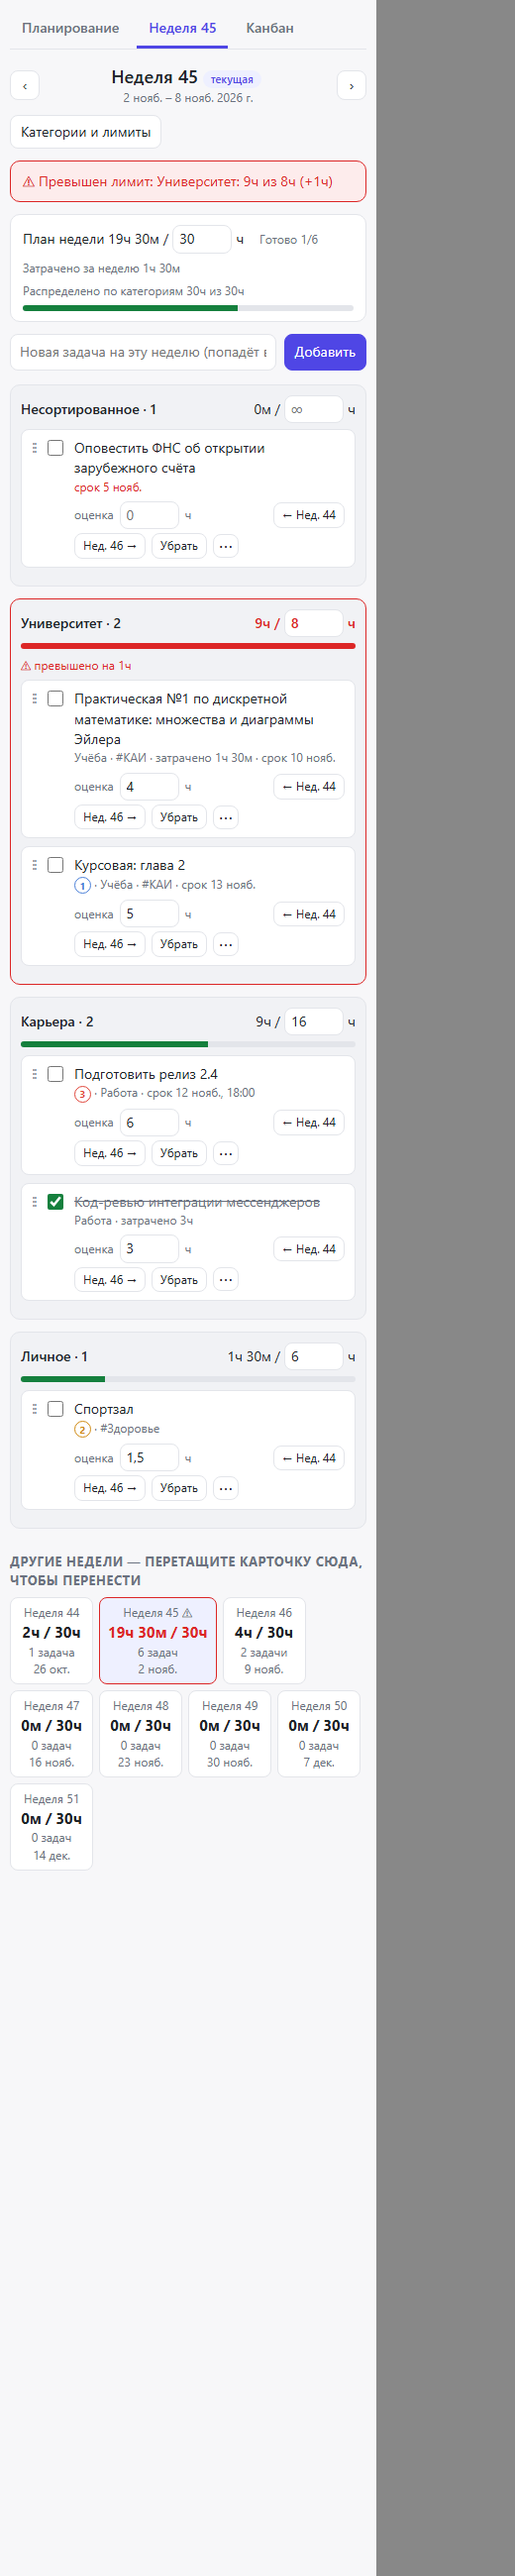
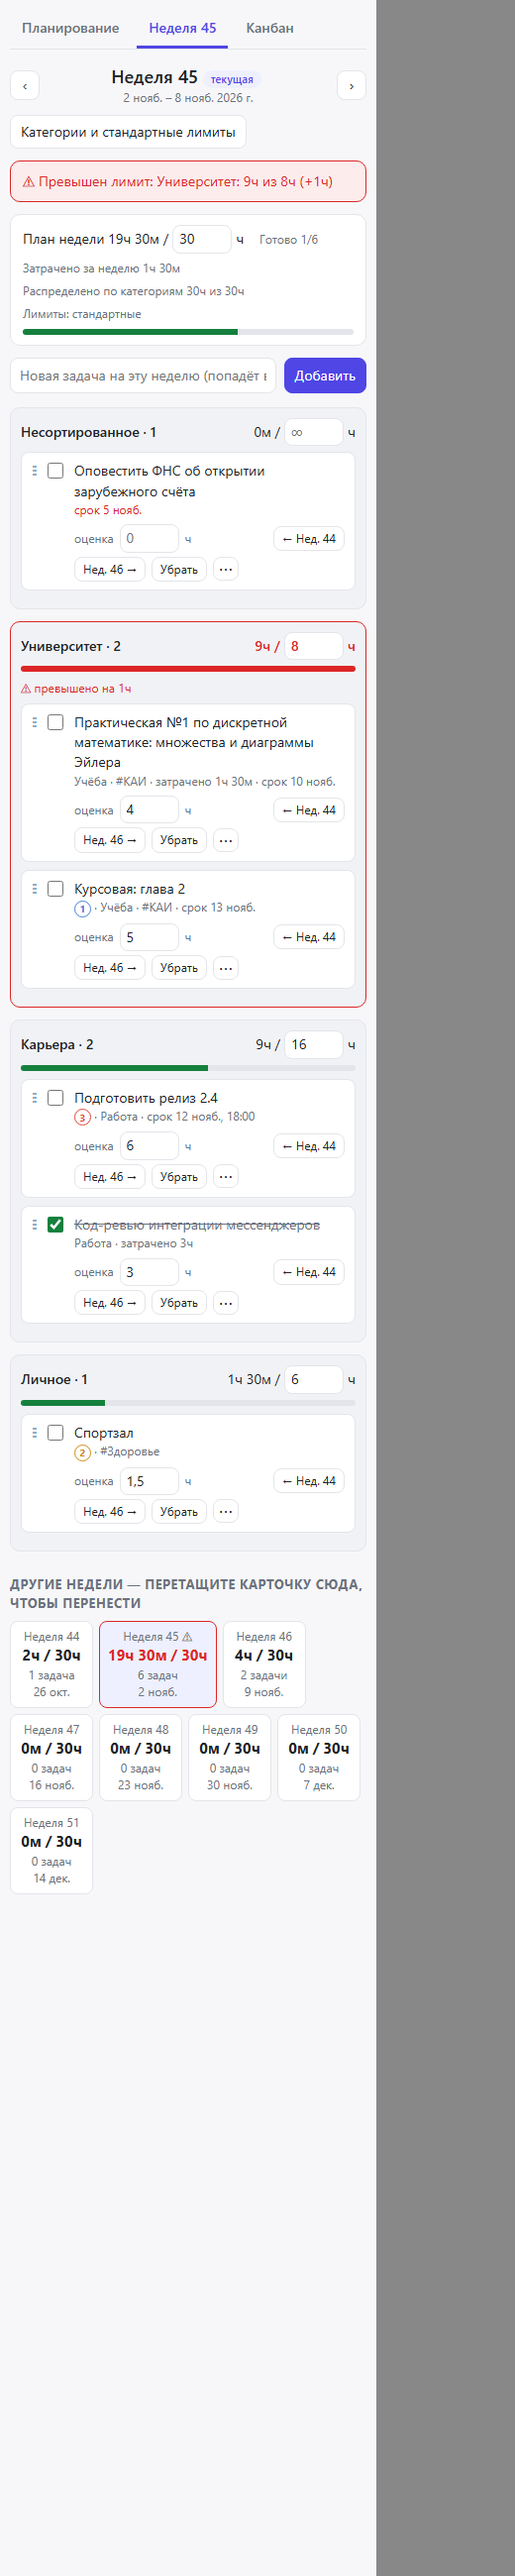
0.7.0: default limits and own limits per week
Limits edited on the week page are stored per week (wl_<week>) as a snapshot of the defaults, so later default changes do not affect edited weeks. The categories dialog edits the defaults. A 'Use defaults' button removes the own limits of a week.

Changed region(s): [[0.0, 0.0935, 0.7077, 0.7477], [0.4308, 0.3427, 0.4923, 0.3738]]

diff --git a/week-planner/index.html b/week-planner/index.html
@@ -328,6 +328,7 @@
 
   var KEY_PREFIX = 't_';
   var CFG_KEY = 'cfg';
+  var WL_PREFIX = 'wl_';
   var NAV_SECRET = 'nav';
   var WEEK_RE = /^\d{4}-W\d{2}$/;
   var HOUR = 3600000;
@@ -352,13 +353,13 @@
       planTitle: 'Weeks {a}–{b}', planHint: 'Click a week to make it the target of the "→" buttons. Drop tasks onto a week.',
       target: 'target', openWeek: 'Open', unsortedN: 'unsorted: {n}',
       weekTotal: 'Week plan {t} /', doneN: 'Done {d}/{n}', spentWeek: 'Tracked this week {t}',
-      catsBtn: 'Categories & limits', add: 'Add', addPh: 'New task for this week (goes to {c})…',
+      catsBtn: 'Categories & default limits', add: 'Add', addPh: 'New task for this week (goes to {c})…',
       stripTitle: 'Other weeks — drop a card here to move it',
       toPrev: '← W{n}', toNext: 'W{n} →', toPrevTitle: 'Move to week {n}', toNextTitle: 'Move to week {n}',
       unplan: 'Unplan', unplanTitle: 'Remove from this week. The task itself stays.',
       estInput: 'estimate', estFromSubs: 'The estimate is the sum of the subtasks',
-      emptyCol: 'Drop tasks here', limitTitle: 'Limit in hours for one week, for all weeks',
-      weekLimitTitle: 'Limit for the whole week, in hours',
+      emptyCol: 'Drop tasks here', limitTitle: 'Default limit in hours per week', limitTitleWeek: 'Limit of this week. Other weeks are not changed.', limitsDefault: 'Limits: default', limitsOwn: 'own week limits', limitsReset: 'Use defaults', limitsResetTitle: 'Delete the own limits of this week and use the defaults again',
+      weekLimitTitle: 'Limit of this week, hours. Other weeks are not changed.',
       over: 'over by {t}', overBanner: 'Limit exceeded', overItem: '{name}: {a} of {b} (+{x})',
       overLine: '⚠ Week {w}, "{name}": {a} of {b}',
       kTitle: 'Kanban · week {n}', kAll: 'All', kDone: 'Done {d} of {t}',
@@ -383,8 +384,8 @@
       ctxUnplan: 'Remove from week', ctxNotPlanned: 'not planned', ctxCat: 'Category', ctxOpen: 'Open task details',
       ctxDelete: 'Delete task', ctxDelConfirm: 'Click again to delete', ctxBack: '← Back', ctxDeleted: 'Task deleted',
       cat_unsorted: 'Unsorted', cat_uni: 'University', cat_career: 'Career', cat_personal: 'Personal',
-      edCats: 'Categories and limits', edCatsHint: 'Categories and limits are the same for every week.',
-      catName: 'Name', catLimit: 'limit, h', addCat: '+ Category', weekLimit: 'Limit for the whole week, hours',
+      edCats: 'Categories and default limits', edCatsHint: 'Categories are the same for every week. Default limits apply to every week except weeks where you set own limits on the week page.',
+      catName: 'Name', catLimit: 'default, h', addCat: '+ Category', weekLimit: 'Default week limit, hours',
       cardSort: 'Card order inside columns', untitled: 'Untitled',
       edPool: 'Unplanned tasks: filter & sort', noFilter: 'no filter', sortBy: 'sort',
       match: 'Show tasks that match', matchAll: 'all conditions', matchAny: 'any condition',
@@ -423,13 +424,13 @@
       planTitle: 'Недели {a}–{b}', planHint: 'Щёлкните по неделе, чтобы кнопки «→» в пуле добавляли задачи на неё. Задачи можно перетаскивать на недели.',
       target: 'цель', openWeek: 'Открыть', unsortedN: 'не разобрано: {n}',
       weekTotal: 'План недели {t} /', doneN: 'Готово {d}/{n}', spentWeek: 'Затрачено за неделю {t}',
-      catsBtn: 'Категории и лимиты', add: 'Добавить', addPh: 'Новая задача на эту неделю (попадёт в «{c}»)…',
+      catsBtn: 'Категории и стандартные лимиты', add: 'Добавить', addPh: 'Новая задача на эту неделю (попадёт в «{c}»)…',
       stripTitle: 'Другие недели — перетащите карточку сюда, чтобы перенести',
       toPrev: '← Нед. {n}', toNext: 'Нед. {n} →', toPrevTitle: 'Перенести на неделю {n}', toNextTitle: 'Перенести на неделю {n}',
       unplan: 'Убрать', unplanTitle: 'Убрать из этой недели. Сама задача останется.',
       estInput: 'оценка', estFromSubs: 'Оценка складывается из подзадач',
-      emptyCol: 'Перетащите задачи сюда', limitTitle: 'Лимит часов на неделю, общий для всех недель',
-      weekLimitTitle: 'Лимит на всю неделю, часов',
+      emptyCol: 'Перетащите задачи сюда', limitTitle: 'Стандартный лимит часов на неделю', limitTitleWeek: 'Лимит этой недели. Изменение не затрагивает другие недели.', limitsDefault: 'Лимиты: стандартные', limitsOwn: 'свои лимиты недели', limitsReset: 'Вернуть стандартные', limitsResetTitle: 'Удалить свои лимиты этой недели и снова использовать стандартные',
+      weekLimitTitle: 'Лимит этой недели, часов. Изменение не затрагивает другие недели.',
       over: 'превышено на {t}', overBanner: 'Превышен лимит', overItem: '{name}: {a} из {b} (+{x})',
       overLine: '⚠ Неделя {w}, «{name}»: {a} из {b}',
       kTitle: 'Канбан · неделя {n}', kAll: 'Все', kDone: 'Готово {d} из {t}',
@@ -454,8 +455,8 @@
       ctxUnplan: 'Убрать из недели', ctxNotPlanned: 'не запланирована', ctxCat: 'Категория', ctxOpen: 'Открыть панель задачи',
       ctxDelete: 'Удалить задачу', ctxDelConfirm: 'Нажмите ещё раз, чтобы удалить', ctxBack: '← Назад', ctxDeleted: 'Задача удалена',
       cat_unsorted: 'Несортированное', cat_uni: 'Университет', cat_career: 'Карьера', cat_personal: 'Личное',
-      edCats: 'Категории и лимиты', edCatsHint: 'Категории и лимиты общие для всех недель.',
-      catName: 'Название', catLimit: 'лимит, ч', addCat: '+ Категория', weekLimit: 'Лимит на всю неделю, часов',
+      edCats: 'Категории и стандартные лимиты', edCatsHint: 'Категории общие для всех недель. Стандартные лимиты получают все недели, кроме тех, где вы задали свои лимиты на вкладке недели.',
+      catName: 'Название', catLimit: 'стандарт, ч', addCat: '+ Категория', weekLimit: 'Стандартный лимит недели, часов',
       cardSort: 'Порядок карточек в колонках', untitled: 'Без названия',
       edPool: 'Незапланированные задачи: фильтр и сортировка', noFilter: 'без фильтра', sortBy: 'сортировка',
       match: 'Показывать задачи, которые подходят под', matchAll: 'все условия', matchAny: 'любое условие',
@@ -566,7 +567,7 @@
   var state = {
     today: null, curWeek: null,
     page: 'plan', week: null, kWeek: null, planStart: null, target: null,
-    assign: {}, tasks: {}, archived: {}, projects: {}, tags: {},
+    assign: {}, tasks: {}, archived: {}, projects: {}, tags: {}, weekLimits: {},
     cfg: defaultCfg(), poolQuery: '', poolSel: {}, kCat: null
   };
   var editor = null;
@@ -948,8 +949,9 @@
     var res = await Promise.all([
       todayDate(), loadAssignments(), PluginAPI.getTasks(),
       PluginAPI.getArchivedTasks().catch(function () { return []; }),
-      PluginAPI.getAllProjects(), PluginAPI.getAllTags(), loadCfg()
+      PluginAPI.getAllProjects(), PluginAPI.getAllTags(), loadCfg(), loadWeekLimits()
     ]);
+    state.weekLimits = res[7];
     state.today = ymd(res[0]);
     var cw = isoWeekKey(res[0]);
     var weekChanged = state.curWeek && state.curWeek !== cw;
@@ -1008,13 +1010,60 @@
     return { tasks: wt, total: hoursOf(wt), cats: cats };
   }
 
+  // ---------- limits: defaults in cfg, own limits per week in "wl_<week>" ----------
+  // A week without own limits follows the defaults. The first edit of a limit inside a week copies
+  // all current defaults into the week, so later default changes do not touch that week.
+  function weekLimitH(w) {
+    var o = state.weekLimits[w];
+    return o ? o.week : state.cfg.weekLimitH;
+  }
+  function catLimitH(w, c) {
+    var o = state.weekLimits[w];
+    return o && Object.prototype.hasOwnProperty.call(o.cats, c.id) ? o.cats[c.id] : c.limitH;
+  }
+  function weekCats(w) {
+    return state.cfg.cats.map(function (c) { return { id: c.id, limitH: catLimitH(w, c) }; });
+  }
+  function parseWeekLimits(v) {
+    if (!v) return null;
+    try {
+      var o = JSON.parse(v);
+      if (!o || typeof o !== 'object') return null;
+      var cats = {};
+      Object.keys(o.cats || {}).forEach(function (k) { cats[k] = posNum(o.cats[k]); });
+      return { week: posNum(o.week), cats: cats };
+    } catch (e) { return null; }
+  }
+  async function loadWeekLimits() {
+    var keys = await PluginAPI.listSyncedDataKeys(WL_PREFIX);
+    var vals = await Promise.all(keys.map(function (k) { return PluginAPI.loadSyncedData(k); }));
+    var map = {};
+    keys.forEach(function (k, i) {
+      var w = k.slice(WL_PREFIX.length);
+      var o = parseWeekLimits(vals[i]);
+      if (o && WEEK_RE.test(w)) map[w] = o;
+    });
+    return map;
+  }
+  function ownLimitsFrom(w) {
+    var cats = {};
+    state.cfg.cats.forEach(function (c) { cats[c.id] = catLimitH(w, c); });
+    return { week: weekLimitH(w), cats: cats };
+  }
+  async function saveWeekLimits(w, o) {
+    if (o) state.weekLimits[w] = o;
+    else delete state.weekLimits[w];
+    render(true);
+    await PluginAPI.persistDataSynced(o ? JSON.stringify(o) : '', WL_PREFIX + w);
+  }
+
   function overLimits(w) {
     var ld = weekLoad(w);
     var out = [];
-    var wl = limMs(state.cfg.weekLimitH);
+    var wl = limMs(weekLimitH(w));
     if (wl && ld.total > wl) out.push({ id: '_week', name: t('week', { n: weekNum(w) }), h: ld.total, lim: wl });
     state.cfg.cats.forEach(function (c) {
-      var l = limMs(c.limitH);
+      var l = limMs(catLimitH(w, c));
       if (l && ld.cats[c.id].h > l) out.push({ id: c.id, name: catName(c), h: ld.cats[c.id].h, lim: l });
     });
     return out;
@@ -1225,47 +1274,58 @@
   }
   function hrs(h) { return fmtDur(h * HOUR); }
 
+  // Inputs in the week page edit the own limits of the shown week, not the defaults.
   function limitInput(catId) {
+    var w = state.week;
     var c = catId === '_week' ? null : catById(catId);
-    var val = c ? c.limitH : state.cfg.weekLimitH;
-    var input = numInput(val, '0.5', c ? t('limitTitle') : t('weekLimitTitle'), async function (v) {
-      var week = state.cfg.weekLimitH;
-      if (catId === '_week') {
-        var sum = catLimitSum(state.cfg.cats);
+    var val = c ? catLimitH(w, c) : weekLimitH(w);
+    var input = numInput(val, '0.5', c ? t('limitTitleWeek') : t('weekLimitTitle'), async function (v) {
+      if ((c ? catLimitH(w, c) : weekLimitH(w)) === v) return;
+      var own = ownLimitsFrom(w);
+      var cats = weekCats(w);
+      if (!c) {
+        var sum = catLimitSum(cats);
         if (v !== null && v < sum) {
           v = sum;
           showToast(t('weekClamped', { t: hrs(sum) }), true, null);
         }
-        state.cfg.weekLimitH = v;
+        own.week = v;
       } else {
-        var target = state.cfg.cats.filter(function (x) { return x.id === catId; })[0];
-        if (!target) return;
-        if (week && v !== null) {
-          var room = Math.max(0, week - catLimitSum(state.cfg.cats, catId));
+        if (own.week && v !== null) {
+          var room = Math.max(0, own.week - catLimitSum(cats, catId));
           if (room <= 0) {
-            showToast(t('catNoRoom', { name: catName(target), w: hrs(week) }), true, null);
+            showToast(t('catNoRoom', { name: catName(c), w: hrs(own.week) }), true, null);
             render(true);
             return;
           }
           if (v > room) {
             v = room;
-            showToast(t('catClamped', { name: catName(target), t: hrs(room), w: hrs(week) }), true, null);
+            showToast(t('catClamped', { name: catName(c), t: hrs(room), w: hrs(own.week) }), true, null);
           }
         }
-        target.limitH = v;
+        own.cats[catId] = v;
       }
-      render(true);
-      await saveCfg();
+      await saveWeekLimits(w, own);
     });
-    if (c && state.cfg.weekLimitH) {
-      input.max = String(Math.max(0, state.cfg.weekLimitH - catLimitSum(state.cfg.cats, catId)));
-    }
+    var wl = weekLimitH(w);
+    if (c && wl) input.max = String(Math.max(0, wl - catLimitSum(weekCats(w), catId)));
     return input;
   }
 
+  function limitsModeEl(w) {
+    if (!state.weekLimits[w]) return el('span', { className: 'muted', text: t('limitsDefault') });
+    return el('span', { className: 'hours' }, [
+      el('span', { className: 'badge', text: t('limitsOwn') }),
+      el('button', {
+        type: 'button', className: 'small', text: t('limitsReset'), title: t('limitsResetTitle'),
+        onclick: run(function () { return saveWeekLimits(w, null); })
+      })
+    ]);
+  }
+
   function allocEl() {
-    var week = state.cfg.weekLimitH;
-    var sum = catLimitSum(state.cfg.cats);
+    var week = weekLimitH(state.week);
+    var sum = catLimitSum(weekCats(state.week));
     if (!week) return null;
     if (sum > week) {
       return el('span', { className: 'bad-text', style: 'font-size:12px', text: '⚠ ' + t('allocOver', { a: hrs(sum), b: hrs(week) }) });
@@ -1371,10 +1431,10 @@
 
   function weekCard(w) {
     var ld = weekLoad(w);
-    var wl = limMs(state.cfg.weekLimitH);
+    var wl = limMs(weekLimitH(w));
     var over = overLimits(w);
     var lines = state.cfg.cats.map(function (c) {
-      var l = limMs(c.limitH);
+      var l = limMs(catLimitH(w, c));
       var h = ld.cats[c.id].h;
       if (c.id === UNSORTED && !ld.cats[c.id].n) return null;
       return el('div', { className: 'catline' + (l && h > l ? ' over' : '') }, [
@@ -1465,7 +1525,7 @@
     }).join('; ') : '';
 
     var ld = weekLoad(w);
-    var wl = limMs(state.cfg.weekLimitH);
+    var wl = limMs(weekLimitH(w));
     var done = ld.tasks.filter(function (x) { return x.isDone; }).length;
     var days = weekDays(w), spent = 0;
     ld.tasks.forEach(function (task) {
@@ -1477,13 +1537,14 @@
       el('span', { className: 'muted', text: t('doneN', { d: done, n: ld.tasks.length }) }),
       el('span', { className: 'muted', text: t('spentWeek', { t: fmtDur(spent) }) }),
       allocEl(),
+      limitsModeEl(w),
       loadBar(ld.total, wl)
     ]);
     $('addInput').placeholder = t('addPh', { c: catName(catById(UNSORTED)) });
 
     fill($('weekBoard'), state.cfg.cats.map(function (c) {
       var items = sortTasks(ld.tasks.filter(function (x) { return catIdOf(x) === c.id; }), state.cfg.cardSort);
-      var h = ld.cats[c.id].h, l = limMs(c.limitH), isOver = !!l && h > l;
+      var h = ld.cats[c.id].h, l = limMs(catLimitH(w, c)), isOver = !!l && h > l;
       var col = el('div', { className: 'bcol' + (isOver ? ' over' : '') }, [
         el('div', { className: 'bcol-head' }, [
           el('span', { className: 'bcol-title', text: catName(c) + ' · ' + items.length }),
@@ -1513,7 +1574,7 @@
           onclick: function () { state.week = key; render(true); }
         }, [
           el('span', { className: 'muted', text: t('week', { n: weekNum(key) }) + (ov.length ? ' ⚠' : '') }),
-          el('b', { text: fmtLim(kl.total, wl) }),
+          el('b', { text: fmtLim(kl.total, limMs(weekLimitH(key))) }),
           el('span', { className: 'muted', text: nTasks(kl.tasks.length) }),
           el('span', { className: 'muted', text: fmtDay(weekMonday(key)) })
         ]);

diff --git a/tests/smoke.test.js b/tests/smoke.test.js
@@ -150,7 +150,7 @@ function drag(w, from, to) {
     await wait(50);
     check('category limit cannot exceed the free hours of the week', () => {
       // Week 30 h, Career 16 h + Personal 6 h → at most 8 h are left for University.
-      assert.strictEqual(JSON.parse(w.__store.cfg).cats.find((c) => c.id === 'uni').limitH, 8);
+      assert.strictEqual(JSON.parse(w.__store['wl_2026-W45']).cats.uni, 8);
       assert.ok($('toastMsg').textContent.includes('Лимит «Университет» уменьшен до 8ч'), $('toastMsg').textContent);
       assert.strictEqual(colByTitle($('weekBoard'), 'Университет').querySelector('.num-input').max, '8');
     });
@@ -168,9 +168,16 @@ function drag(w, from, to) {
     uniLim.dispatchEvent(new w.Event('change'));
     await wait(50);
     check('freed hours can be given to another category', () => {
+      const own = JSON.parse(w.__store['wl_2026-W45']);
+      assert.strictEqual(own.cats.personal, 4);
+      assert.strictEqual(own.cats.uni, 10);
+    });
+
+    check('week edits go to the week only, defaults stay', () => {
       const cats = JSON.parse(w.__store.cfg).cats;
-      assert.strictEqual(cats.find((c) => c.id === 'personal').limitH, 4);
-      assert.strictEqual(cats.find((c) => c.id === 'uni').limitH, 10);
+      assert.strictEqual(cats.find((c) => c.id === 'uni').limitH, 8);
+      assert.strictEqual(cats.find((c) => c.id === 'personal').limitH, 6);
+      assert.ok($('weekPanel').textContent.includes('свои лимиты недели'));
     });
 
     const weekLim = $('weekPanel').querySelector('.num-input');
@@ -178,7 +185,7 @@ function drag(w, from, to) {
     weekLim.dispatchEvent(new w.Event('change'));
     await wait(50);
     check('week limit cannot go below the category limits together', () => {
-      assert.strictEqual(JSON.parse(w.__store.cfg).weekLimitH, 30);
+      assert.strictEqual(JSON.parse(w.__store['wl_2026-W45']).week, 30);
       assert.ok($('toastMsg').textContent.includes('Лимит недели поднят до 30ч'));
     });
 
@@ -190,18 +197,23 @@ function drag(w, from, to) {
       assert.strictEqual($('modal').querySelectorAll('.catrow .danger').length, 3, 'Unsorted cannot be deleted');
     });
     const limInputs = $('modal').querySelectorAll('.catrow input[type=number]');
-    limInputs[3].value = '9'; // Personal 4 → 9: 10 + 16 + 9 = 35 > 30
+    check('the editor edits the defaults', () => {
+      assert.deepStrictEqual([...limInputs].map((i) => i.value), ['', '8', '16', '6']);
+    });
+    limInputs[3].value = '9'; // default Personal 6 → 9: 8 + 16 + 9 = 33 > 30
     limInputs[3].dispatchEvent(new w.Event('input'));
     check('editor blocks saving while category limits exceed the week', () => {
       assert.ok($('edSave').disabled);
-      assert.ok($('edAlloc').textContent.includes('35ч больше лимита недели 30ч'), $('edAlloc').textContent);
+      assert.ok($('edAlloc').textContent.includes('33ч больше лимита недели 30ч'), $('edAlloc').textContent);
     });
-    limInputs[3].value = '4';
+    limInputs[3].value = '6';
     limInputs[3].dispatchEvent(new w.Event('input'));
     check('editor allows saving again when limits fit', () => {
       assert.ok(!$('edSave').disabled);
       assert.ok($('edAlloc').textContent.includes('30ч из 30ч'));
     });
+    limInputs[1].value = '5'; // new default for University
+    limInputs[1].dispatchEvent(new w.Event('input'));
     nameInputs[2].value = 'Работа';
     nameInputs[2].dispatchEvent(new w.Event('input'));
     btn($('modal'), '+ Категория').click();
@@ -215,6 +227,29 @@ function drag(w, from, to) {
       assert.deepStrictEqual(titles, ['Несортированное · 0', 'Университет · 2', 'Работа · 2', 'Личное · 2', 'Здоровье · 0']);
       const cats = JSON.parse(w.__store.cfg).cats;
       assert.strictEqual(cats[0].name, '', 'built-in names stay translatable');
+    });
+
+    const uniLimit = () => colByTitle($('weekBoard'), 'Университет').querySelector('.num-input').value;
+    check('a new default does not change a week with own limits', () => {
+      assert.strictEqual(JSON.parse(w.__store.cfg).cats.find((c) => c.id === 'uni').limitH, 5);
+      assert.strictEqual(uniLimit(), '10');
+    });
+    check('a new category gets its default limit in a week with own limits', () => {
+      assert.strictEqual(colByTitle($('weekBoard'), 'Здоровье').querySelector('.num-input').value, '');
+    });
+
+    $('weekNext').click();
+    check('a week without own limits follows the new default', () => {
+      assert.strictEqual(uniLimit(), '5');
+      assert.ok($('weekPanel').textContent.includes('Лимиты: стандартные'));
+    });
+
+    $('weekPrev').click();
+    btn($('weekPanel'), 'Вернуть стандартные').click();
+    await wait(50);
+    check('"Use defaults" removes the own limits of the week', () => {
+      assert.strictEqual(w.__store['wl_2026-W45'], '');
+      assert.strictEqual(uniLimit(), '5');
     });
   }
 

diff --git a/CHANGELOG.md b/CHANGELOG.md
@@ -2,6 +2,18 @@
 
 The project is in early development (0.x). Data formats and UI may still change.
 
+## 0.7.0 — 2026-11-08
+
+- **Default limits and own week limits.** The "Categories & default limits" dialog sets the default week limit
+  and default category limits. Every week uses them until you change a limit on the week page.
+- The first limit change on the week page copies all current defaults into that week ("own week limits")
+  and then applies the change. Later default changes do not affect such weeks.
+- The week panel shows "Limits: default" or "own week limits" with a "Use defaults" button.
+- A category added later uses its default limit also in weeks with own limits.
+- Planning cards, the week strip, warnings and the "category limits ≤ week limit" rule use the limits of each week.
+- Own week limits are stored per week under the synced key `wl_<week>`, so edits of different weeks
+  do not overwrite each other during sync.
+
 ## 0.6.0 — 2026-11-08
 
 - Category limits together cannot exceed the week limit.
